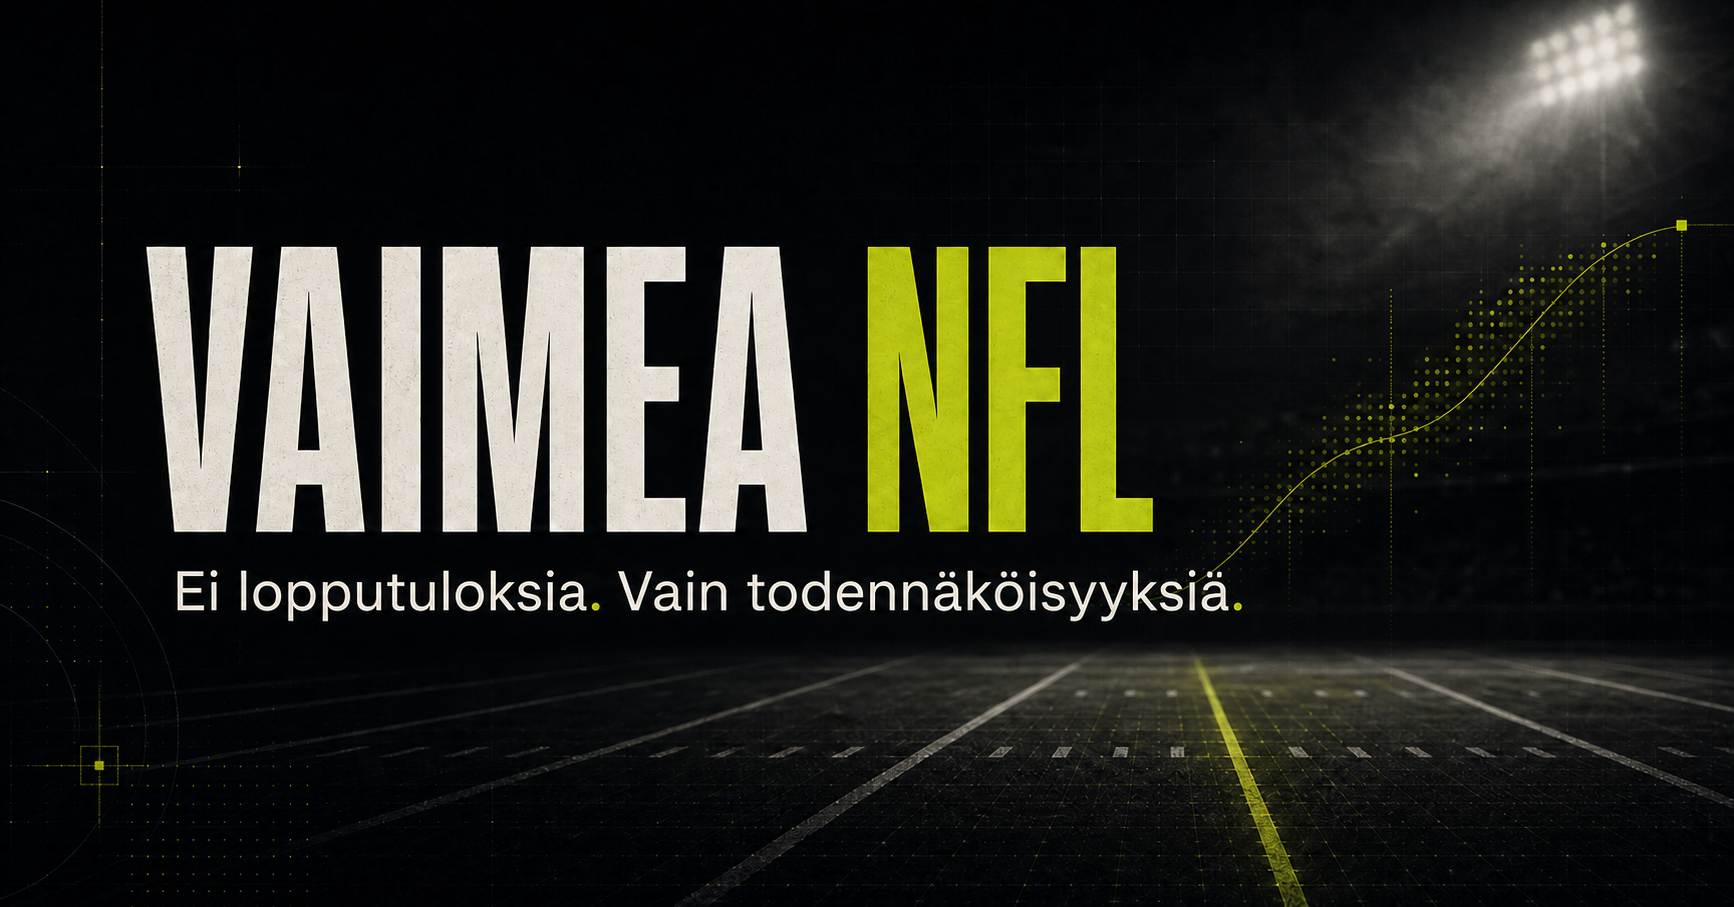
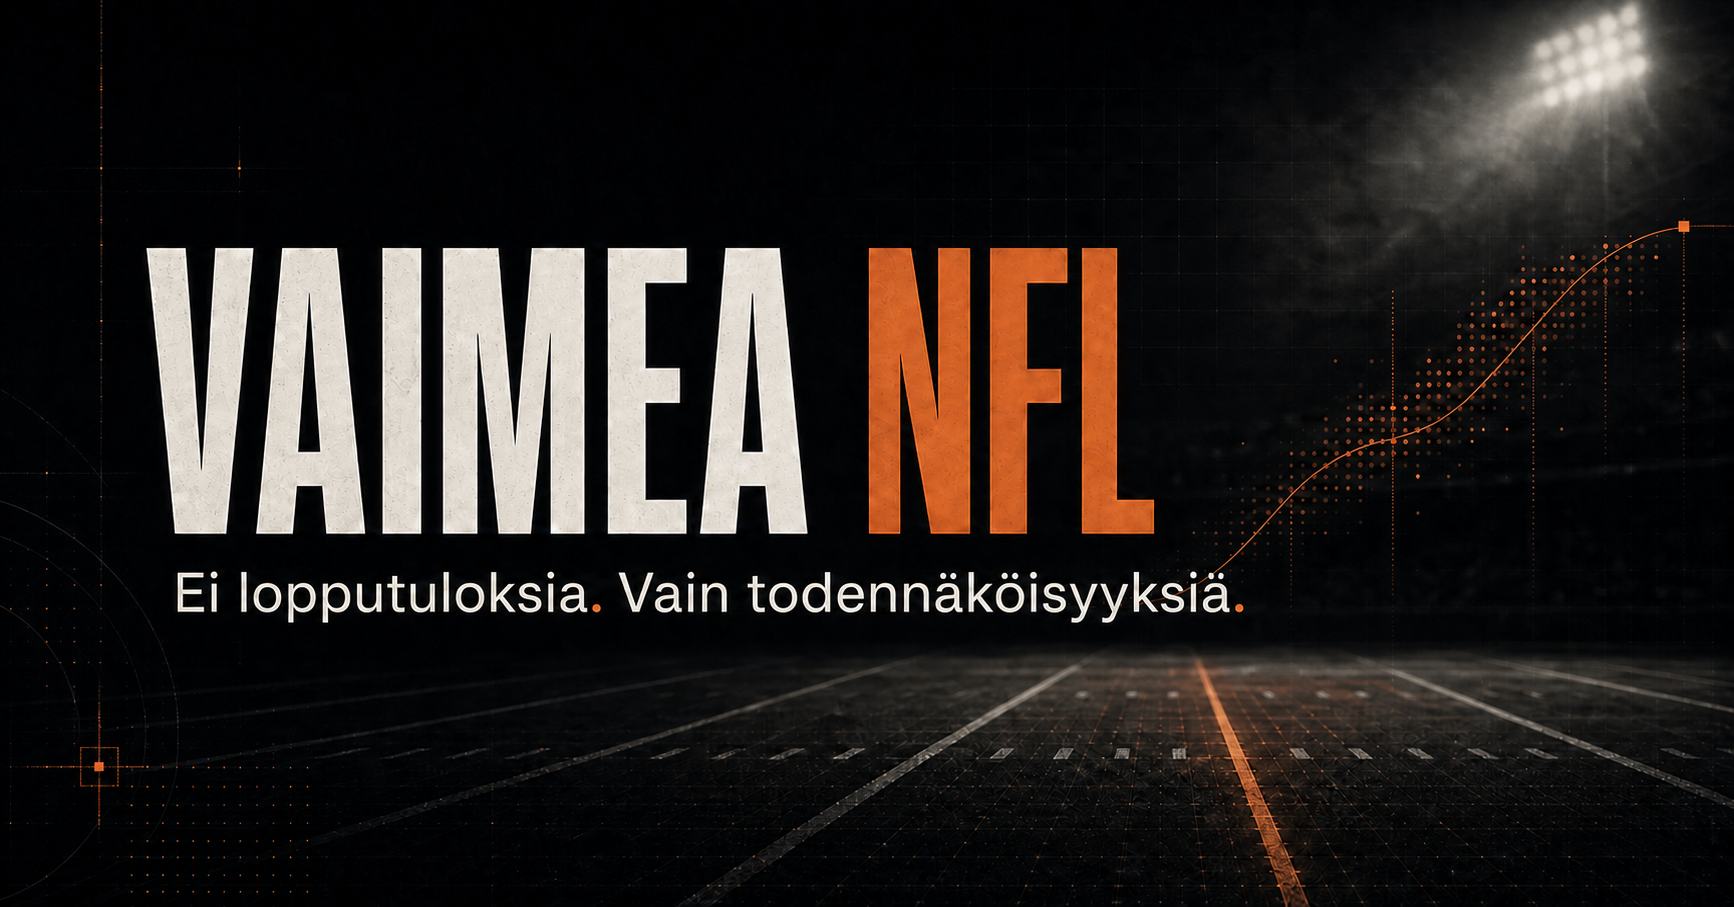
Vaihda VAIMEA-teema jenkkifutiksen ruskeaksi

diff --git a/styles.css b/styles.css
@@ -1,10 +1,10 @@
-:root{--ink:#0a0d0c;--panel:#111513;--acid:#c8ff3d;--mint:#93cda1;--paper:#eef1e9;--muted:#8c958f;--line:rgba(238,241,233,.14)}
-*{box-sizing:border-box}html{scroll-behavior:smooth}body{margin:0;background:var(--ink);color:var(--paper);font-family:Arial,Helvetica,sans-serif}.grain{position:fixed;inset:0;pointer-events:none;opacity:.16;z-index:9;background-image:radial-gradient(circle at 15% 20%,rgba(200,255,61,.11) 0 1px,transparent 1.5px),radial-gradient(circle at 80% 65%,rgba(238,241,233,.08) 0 1px,transparent 1.5px);background-size:17px 17px,23px 23px}.topbar{height:78px;display:flex;align-items:center;justify-content:space-between;padding:0 max(5vw,28px);border-bottom:1px solid var(--line);position:sticky;top:0;background:rgba(10,13,12,.9);backdrop-filter:blur(18px);z-index:5}.wordmark{display:flex;align-items:center;gap:8px;color:inherit;text-decoration:none;font-size:15px;letter-spacing:.18em;font-weight:800}.wordmark b{color:var(--acid)}.signal{width:9px;height:9px;background:var(--acid);box-shadow:0 0 18px rgba(200,255,61,.55)}nav{display:flex;gap:30px}nav a{font:500 11px ui-monospace,Consolas,monospace;color:#b8c0ba;text-decoration:none;text-transform:uppercase;letter-spacing:.1em}nav a:hover{color:var(--acid)}.hero{min-height:calc(100vh - 78px);padding:9vh max(7vw,28px) 6vh;position:relative;overflow:hidden}.hero:after{content:"V";position:absolute;right:-2vw;bottom:-18vh;font-size:min(65vw,900px);line-height:.8;font-weight:800;color:transparent;-webkit-text-stroke:1px rgba(200,255,61,.08);z-index:-1}.eyebrow,.kicker{font:500 11px ui-monospace,Consolas,monospace;letter-spacing:.13em;color:var(--mint)}.eyebrow{display:flex;align-items:center;gap:12px}.live-dot{width:5px;height:5px;border-radius:50%;background:var(--acid);box-shadow:0 0 9px var(--acid)}h1{font-size:clamp(54px,9vw,136px);line-height:.88;letter-spacing:-.065em;margin:7vh 0 34px;max-width:1100px}h1 em{font-style:normal;color:var(--acid)}.lede{font-size:clamp(17px,2vw,22px);line-height:1.55;color:#adb6af;max-width:640px}.primary{display:inline-flex;gap:55px;align-items:center;margin-top:32px;padding:17px 20px;background:var(--acid);color:#10130f;text-decoration:none;font-weight:800;font-size:13px}.primary span{font-size:19px}.hero-stats{margin-top:10vh;border-top:1px solid var(--line);display:grid;grid-template-columns:repeat(3,minmax(130px,220px));gap:24px;padding-top:25px}.hero-stats div{display:flex;flex-direction:column}.hero-stats strong{font-size:25px}.hero-stats span{color:var(--muted);font:10px ui-monospace,Consolas,monospace;text-transform:uppercase;margin-top:6px}.forecast-section,.method,.instructions{padding:110px max(7vw,28px)}.forecast-section{background:#0d100f}.section-head{display:flex;justify-content:space-between;align-items:end;gap:30px;margin-bottom:50px}.section-head h2,.instructions h2{font-size:clamp(36px,5vw,64px);letter-spacing:-.045em;margin:9px 0 0}.section-head>p{color:var(--muted);max-width:440px;line-height:1.6;font-size:14px}.forecast-grid{display:grid;gap:12px}.empty-state{min-height:210px;padding:34px;display:grid;grid-template-columns:75px 1fr auto;align-items:center;gap:20px;border:1px solid var(--line);background:linear-gradient(120deg,#151a17,#101310)}.empty-index{font:40px ui-monospace,Consolas,monospace;color:#364038}.empty-state h3{font-size:22px;margin:0 0 9px}.empty-state p{color:var(--muted);line-height:1.6;max-width:670px;margin:0}.status-pill{font:10px ui-monospace,Consolas,monospace;color:var(--acid);border:1px solid rgba(200,255,61,.35);padding:9px 12px}.game-card{border:1px solid var(--line);background:#141815;padding:26px;display:grid;grid-template-columns:1fr minmax(220px,38%) 1fr;gap:20px;align-items:center}.team:last-child{text-align:right}.team strong{display:block;font-size:24px}.team span{font:10px ui-monospace,Consolas,monospace;color:var(--muted)}.probbar{height:8px;background:#283028;display:flex}.probbar i{display:block;background:var(--acid)}.prob-labels{display:flex;justify-content:space-between;margin-top:10px;font:500 14px ui-monospace,Consolas,monospace}.method{background:var(--paper);color:var(--ink)}.section-head.light>p{color:#626a64}.method-grid{display:grid;grid-template-columns:repeat(4,1fr);border-top:1px solid #cbd0c8;border-left:1px solid #cbd0c8}.method-grid article{padding:35px 28px;min-height:290px;border-right:1px solid #cbd0c8;border-bottom:1px solid #cbd0c8}.method-grid article>span{font:12px ui-monospace,Consolas,monospace;color:#6d776f}.method-grid h3{font-size:20px;margin:70px 0 12px}.method-grid p,.honesty p{color:#636a65;line-height:1.65;font-size:14px}.honesty{margin-top:24px;background:#dce5d5;padding:28px;display:grid;grid-template-columns:190px 1fr;gap:20px}.honesty strong{font:500 11px ui-monospace,Consolas,monospace;letter-spacing:.1em}.honesty p{margin:0;max-width:800px}.instructions{display:grid;grid-template-columns:1fr 1.4fr;gap:8vw}.instructions ol{list-style:none;padding:0;margin:0}.instructions li{display:grid;grid-template-columns:45px 1fr;gap:20px;padding:24px 0;border-top:1px solid var(--line)}.instructions li>span{font:12px ui-monospace,Consolas,monospace;color:var(--acid)}.instructions h3{margin:0 0 8px;font-size:18px}.instructions p{margin:0;color:var(--muted);line-height:1.6;font-size:14px}footer{border-top:1px solid var(--line);padding:30px max(5vw,28px);display:flex;align-items:center;justify-content:space-between;color:var(--muted);font-size:11px}footer .wordmark{color:var(--paper);font-size:12px}
+:root{--ink:#0c0a09;--panel:#15110f;--acid:#d17a3f;--mint:#c49a72;--paper:#f1e8df;--muted:#9f958d;--line:rgba(241,232,223,.14)}
+*{box-sizing:border-box}html{scroll-behavior:smooth}body{margin:0;background:var(--ink);color:var(--paper);font-family:Arial,Helvetica,sans-serif}.grain{position:fixed;inset:0;pointer-events:none;opacity:.16;z-index:9;background-image:radial-gradient(circle at 15% 20%,rgba(209,122,63,.12) 0 1px,transparent 1.5px),radial-gradient(circle at 80% 65%,rgba(241,232,223,.08) 0 1px,transparent 1.5px);background-size:17px 17px,23px 23px}.topbar{height:78px;display:flex;align-items:center;justify-content:space-between;padding:0 max(5vw,28px);border-bottom:1px solid var(--line);position:sticky;top:0;background:rgba(12,10,9,.91);backdrop-filter:blur(18px);z-index:5}.wordmark{display:flex;align-items:center;gap:8px;color:inherit;text-decoration:none;font-size:15px;letter-spacing:.18em;font-weight:800}.wordmark b{color:var(--acid)}.signal{width:9px;height:9px;background:var(--acid);box-shadow:0 0 18px rgba(209,122,63,.55)}nav{display:flex;gap:30px}nav a{font:500 11px ui-monospace,Consolas,monospace;color:#c3b8ae;text-decoration:none;text-transform:uppercase;letter-spacing:.1em}nav a:hover{color:var(--acid)}.hero{min-height:calc(100vh - 78px);padding:9vh max(7vw,28px) 6vh;position:relative;overflow:hidden}.hero:after{content:"V";position:absolute;right:-2vw;bottom:-18vh;font-size:min(65vw,900px);line-height:.8;font-weight:800;color:transparent;-webkit-text-stroke:1px rgba(209,122,63,.1);z-index:-1}.eyebrow,.kicker{font:500 11px ui-monospace,Consolas,monospace;letter-spacing:.13em;color:var(--mint)}.eyebrow{display:flex;align-items:center;gap:12px}.live-dot{width:5px;height:5px;border-radius:50%;background:var(--acid);box-shadow:0 0 9px var(--acid)}h1{font-size:clamp(54px,9vw,136px);line-height:.88;letter-spacing:-.065em;margin:7vh 0 34px;max-width:1100px}h1 em{font-style:normal;color:var(--acid)}.lede{font-size:clamp(17px,2vw,22px);line-height:1.55;color:#bcaea3;max-width:640px}.primary{display:inline-flex;gap:55px;align-items:center;margin-top:32px;padding:17px 20px;background:var(--acid);color:#130c08;text-decoration:none;font-weight:800;font-size:13px}.primary span{font-size:19px}.hero-stats{margin-top:10vh;border-top:1px solid var(--line);display:grid;grid-template-columns:repeat(3,minmax(130px,220px));gap:24px;padding-top:25px}.hero-stats div{display:flex;flex-direction:column}.hero-stats strong{font-size:25px}.hero-stats span{color:var(--muted);font:10px ui-monospace,Consolas,monospace;text-transform:uppercase;margin-top:6px}.forecast-section,.method,.instructions{padding:110px max(7vw,28px)}.forecast-section{background:#100d0b}.section-head{display:flex;justify-content:space-between;align-items:end;gap:30px;margin-bottom:50px}.section-head h2,.instructions h2{font-size:clamp(36px,5vw,64px);letter-spacing:-.045em;margin:9px 0 0}.section-head>p{color:var(--muted);max-width:440px;line-height:1.6;font-size:14px}.forecast-grid{display:grid;gap:12px}.empty-state{min-height:210px;padding:34px;display:grid;grid-template-columns:75px 1fr auto;align-items:center;gap:20px;border:1px solid var(--line);background:linear-gradient(120deg,#1b1512,#120e0c)}.empty-index{font:40px ui-monospace,Consolas,monospace;color:#514139}.empty-state h3{font-size:22px;margin:0 0 9px}.empty-state p{color:var(--muted);line-height:1.6;max-width:670px;margin:0}.status-pill{font:10px ui-monospace,Consolas,monospace;color:var(--acid);border:1px solid rgba(209,122,63,.38);padding:9px 12px}.game-card{border:1px solid var(--line);background:#18120f;padding:26px;display:grid;grid-template-columns:1fr minmax(220px,38%) 1fr;gap:20px;align-items:center}.team:last-child{text-align:right}.team strong{display:block;font-size:24px}.team span{font:10px ui-monospace,Consolas,monospace;color:var(--muted)}.probbar{height:8px;background:#35251d;display:flex}.probbar i{display:block;background:var(--acid)}.prob-labels{display:flex;justify-content:space-between;margin-top:10px;font:500 14px ui-monospace,Consolas,monospace}.method{background:var(--paper);color:var(--ink)}.section-head.light>p{color:#6f6258}.method-grid{display:grid;grid-template-columns:repeat(4,1fr);border-top:1px solid #d8c7b7;border-left:1px solid #d8c7b7}.method-grid article{padding:35px 28px;min-height:290px;border-right:1px solid #d8c7b7;border-bottom:1px solid #d8c7b7}.method-grid article>span{font:12px ui-monospace,Consolas,monospace;color:#7b6758}.method-grid h3{font-size:20px;margin:70px 0 12px}.method-grid p,.honesty p{color:#6c5d52;line-height:1.65;font-size:14px}.honesty{margin-top:24px;background:#e4d0bc;padding:28px;display:grid;grid-template-columns:190px 1fr;gap:20px}.honesty strong{font:500 11px ui-monospace,Consolas,monospace;letter-spacing:.1em}.honesty p{margin:0;max-width:800px}.instructions{display:grid;grid-template-columns:1fr 1.4fr;gap:8vw}.instructions ol{list-style:none;padding:0;margin:0}.instructions li{display:grid;grid-template-columns:45px 1fr;gap:20px;padding:24px 0;border-top:1px solid var(--line)}.instructions li>span{font:12px ui-monospace,Consolas,monospace;color:var(--acid)}.instructions h3{margin:0 0 8px;font-size:18px}.instructions p{margin:0;color:var(--muted);line-height:1.6;font-size:14px}footer{border-top:1px solid var(--line);padding:30px max(5vw,28px);display:flex;align-items:center;justify-content:space-between;color:var(--muted);font-size:11px}footer .wordmark{color:var(--paper);font-size:12px}
 @media(max-width:800px){nav{display:none}.hero{padding-top:8vh}h1{margin-top:5vh}.hero-stats{grid-template-columns:repeat(3,1fr);gap:10px}.forecast-section,.method,.instructions{padding:75px 24px}.section-head{display:block}.empty-state{grid-template-columns:1fr}.empty-index{display:none}.status-pill{justify-self:start}.method-grid{grid-template-columns:1fr 1fr}.method-grid article{min-height:250px}.instructions{grid-template-columns:1fr}.honesty{grid-template-columns:1fr}.game-card{grid-template-columns:1fr}.team:last-child{text-align:left}footer{gap:20px;align-items:flex-start;flex-direction:column}}
 @media(max-width:520px){.hero-stats strong{font-size:19px}.hero-stats span{font-size:8px}.method-grid{grid-template-columns:1fr}.method-grid article{min-height:auto}.method-grid h3{margin-top:40px}}
 @media(prefers-reduced-motion:no-preference){.live-dot{animation:pulse 2s infinite}@keyframes pulse{50%{opacity:.35;box-shadow:0 0 3px var(--acid)}}}
 
-.text-link{display:inline-flex;align-items:center;gap:28px;margin-top:28px;color:var(--acid);font:700 12px ui-monospace,Consolas,monospace;letter-spacing:.06em;text-decoration:none;text-transform:uppercase}.text-link.dark{color:#263128}.page-hero{padding:95px max(7vw,28px) 70px;border-bottom:1px solid var(--line)}.page-hero h1{font-size:clamp(52px,8vw,112px);margin:32px 0 28px}.page-hero p{max-width:720px;color:#abb4ae;font-size:19px;line-height:1.65}.page-content{padding:80px max(7vw,28px) 120px}.page-grid{display:grid;grid-template-columns:minmax(0,1.5fr) minmax(260px,.7fr);gap:7vw}.prose{max-width:820px}.prose h2{font-size:clamp(30px,4vw,48px);letter-spacing:-.035em;margin:75px 0 18px}.prose h2:first-child{margin-top:0}.prose h3{font-size:21px;margin:40px 0 12px}.prose p,.prose li{color:#aab3ad;line-height:1.78;font-size:16px}.prose strong{color:var(--paper)}.prose blockquote{margin:42px 0;padding:28px 30px;border-left:3px solid var(--acid);background:#131815;font-size:20px;line-height:1.55}.side-card{position:sticky;top:110px;align-self:start;border:1px solid var(--line);padding:28px;background:#111513}.side-card strong{font:500 11px ui-monospace,Consolas,monospace;color:var(--acid);letter-spacing:.1em}.side-card ul{padding:0;list-style:none}.side-card li{border-top:1px solid var(--line);padding:14px 0;color:#9da69f;font-size:13px}.content-cards{display:grid;grid-template-columns:repeat(3,1fr);gap:14px}.content-card{min-height:260px;border:1px solid var(--line);padding:27px;display:flex;flex-direction:column;text-decoration:none;color:inherit;background:#111513}.content-card .meta{font:10px ui-monospace,Consolas,monospace;color:var(--mint)}.content-card h2{font-size:25px;line-height:1.2;margin:50px 0 12px}.content-card p{color:var(--muted);line-height:1.6;font-size:14px}.content-card .arrow{margin-top:auto;color:var(--acid)}.data-table{width:100%;border-collapse:collapse}.data-table th,.data-table td{text-align:left;padding:17px 14px;border-bottom:1px solid var(--line)}.data-table th{font:10px ui-monospace,Consolas,monospace;color:var(--muted);letter-spacing:.08em}.data-table td{font-size:14px}.data-table td:last-child,.data-table th:last-child{text-align:right}.metric-strip{display:grid;grid-template-columns:repeat(4,1fr);border:1px solid var(--line);margin-bottom:45px}.metric-strip div{padding:24px;border-right:1px solid var(--line)}.metric-strip div:last-child{border:0}.metric-strip strong{font-size:24px;display:block}.metric-strip span{font:9px ui-monospace,Consolas,monospace;color:var(--muted);text-transform:uppercase}.notice{border:1px solid rgba(200,255,61,.3);background:rgba(200,255,61,.04);padding:22px;color:#bac3bc;line-height:1.6}.steps{counter-reset:step;padding:0;list-style:none}.steps li{counter-increment:step;position:relative;padding:24px 0 24px 58px;border-top:1px solid var(--line)}.steps li:before{content:counter(step,decimal-leading-zero);position:absolute;left:0;color:var(--acid);font:12px ui-monospace,Consolas,monospace}.active-nav{color:var(--acid)!important}.article-head{max-width:830px}.article-date{font:10px ui-monospace,Consolas,monospace;color:var(--mint);letter-spacing:.1em}.empty-list{border:1px solid var(--line);padding:45px;display:grid;grid-template-columns:80px 1fr;gap:25px}.empty-list span{font:36px ui-monospace,Consolas,monospace;color:#364038}.empty-list h2{margin:0 0 12px}.empty-list p{color:var(--muted);line-height:1.7;margin:0}.mobile-menu{display:none}
+.text-link{display:inline-flex;align-items:center;gap:28px;margin-top:28px;color:var(--acid);font:700 12px ui-monospace,Consolas,monospace;letter-spacing:.06em;text-decoration:none;text-transform:uppercase}.text-link.dark{color:#653719}.page-hero{padding:95px max(7vw,28px) 70px;border-bottom:1px solid var(--line)}.page-hero h1{font-size:clamp(52px,8vw,112px);margin:32px 0 28px}.page-hero p{max-width:720px;color:#b8aaa0;font-size:19px;line-height:1.65}.page-content{padding:80px max(7vw,28px) 120px}.page-grid{display:grid;grid-template-columns:minmax(0,1.5fr) minmax(260px,.7fr);gap:7vw}.prose{max-width:820px}.prose h2{font-size:clamp(30px,4vw,48px);letter-spacing:-.035em;margin:75px 0 18px}.prose h2:first-child{margin-top:0}.prose h3{font-size:21px;margin:40px 0 12px}.prose p,.prose li{color:#b4a79d;line-height:1.78;font-size:16px}.prose strong{color:var(--paper)}.prose blockquote{margin:42px 0;padding:28px 30px;border-left:3px solid var(--acid);background:#18120f;font-size:20px;line-height:1.55}.side-card{position:sticky;top:110px;align-self:start;border:1px solid var(--line);padding:28px;background:#15110f}.side-card strong{font:500 11px ui-monospace,Consolas,monospace;color:var(--acid);letter-spacing:.1em}.side-card ul{padding:0;list-style:none}.side-card li{border-top:1px solid var(--line);padding:14px 0;color:#aa9d94;font-size:13px}.content-cards{display:grid;grid-template-columns:repeat(3,1fr);gap:14px}.content-card{min-height:260px;border:1px solid var(--line);padding:27px;display:flex;flex-direction:column;text-decoration:none;color:inherit;background:#15110f}.content-card .meta{font:10px ui-monospace,Consolas,monospace;color:var(--mint)}.content-card h2{font-size:25px;line-height:1.2;margin:50px 0 12px}.content-card p{color:var(--muted);line-height:1.6;font-size:14px}.content-card .arrow{margin-top:auto;color:var(--acid)}.data-table{width:100%;border-collapse:collapse}.data-table th,.data-table td{text-align:left;padding:17px 14px;border-bottom:1px solid var(--line)}.data-table th{font:10px ui-monospace,Consolas,monospace;color:var(--muted);letter-spacing:.08em}.data-table td{font-size:14px}.data-table td:last-child,.data-table th:last-child{text-align:right}.metric-strip{display:grid;grid-template-columns:repeat(4,1fr);border:1px solid var(--line);margin-bottom:45px}.metric-strip div{padding:24px;border-right:1px solid var(--line)}.metric-strip div:last-child{border:0}.metric-strip strong{font-size:24px;display:block}.metric-strip span{font:9px ui-monospace,Consolas,monospace;color:var(--muted);text-transform:uppercase}.notice{border:1px solid rgba(209,122,63,.32);background:rgba(209,122,63,.055);padding:22px;color:#c0b2a8;line-height:1.6}.steps{counter-reset:step;padding:0;list-style:none}.steps li{counter-increment:step;position:relative;padding:24px 0 24px 58px;border-top:1px solid var(--line)}.steps li:before{content:counter(step,decimal-leading-zero);position:absolute;left:0;color:var(--acid);font:12px ui-monospace,Consolas,monospace}.active-nav{color:var(--acid)!important}.article-head{max-width:830px}.article-date{font:10px ui-monospace,Consolas,monospace;color:var(--mint);letter-spacing:.1em}.empty-list{border:1px solid var(--line);padding:45px;display:grid;grid-template-columns:80px 1fr;gap:25px}.empty-list span{font:36px ui-monospace,Consolas,monospace;color:#514139}.empty-list h2{margin:0 0 12px}.empty-list p{color:var(--muted);line-height:1.7;margin:0}.mobile-menu{display:none}
 @media(max-width:980px){.topbar nav{gap:14px}.topbar nav a{font-size:9px}.content-cards{grid-template-columns:1fr 1fr}.page-grid{grid-template-columns:1fr}.side-card{position:static}.metric-strip{grid-template-columns:1fr 1fr}.metric-strip div:nth-child(2){border-right:0}}
 @media(max-width:680px){.content-cards{grid-template-columns:1fr}.page-hero{padding:65px 24px 50px}.page-content{padding:55px 24px 80px}.metric-strip{grid-template-columns:1fr}.metric-strip div{border-right:0;border-bottom:1px solid var(--line)}.empty-list{grid-template-columns:1fr}.topbar{height:68px}.topbar nav{display:none}}
 @media(max-width:680px){.topbar{height:auto;min-height:68px;align-items:flex-start;flex-direction:column;padding:0 24px}.topbar .wordmark{padding:17px 0 10px}.topbar nav{display:flex!important;width:100%;gap:22px;overflow-x:auto;padding:0 0 13px;scrollbar-width:none}.topbar nav::-webkit-scrollbar{display:none}.topbar nav a{white-space:nowrap;font-size:9px}}
